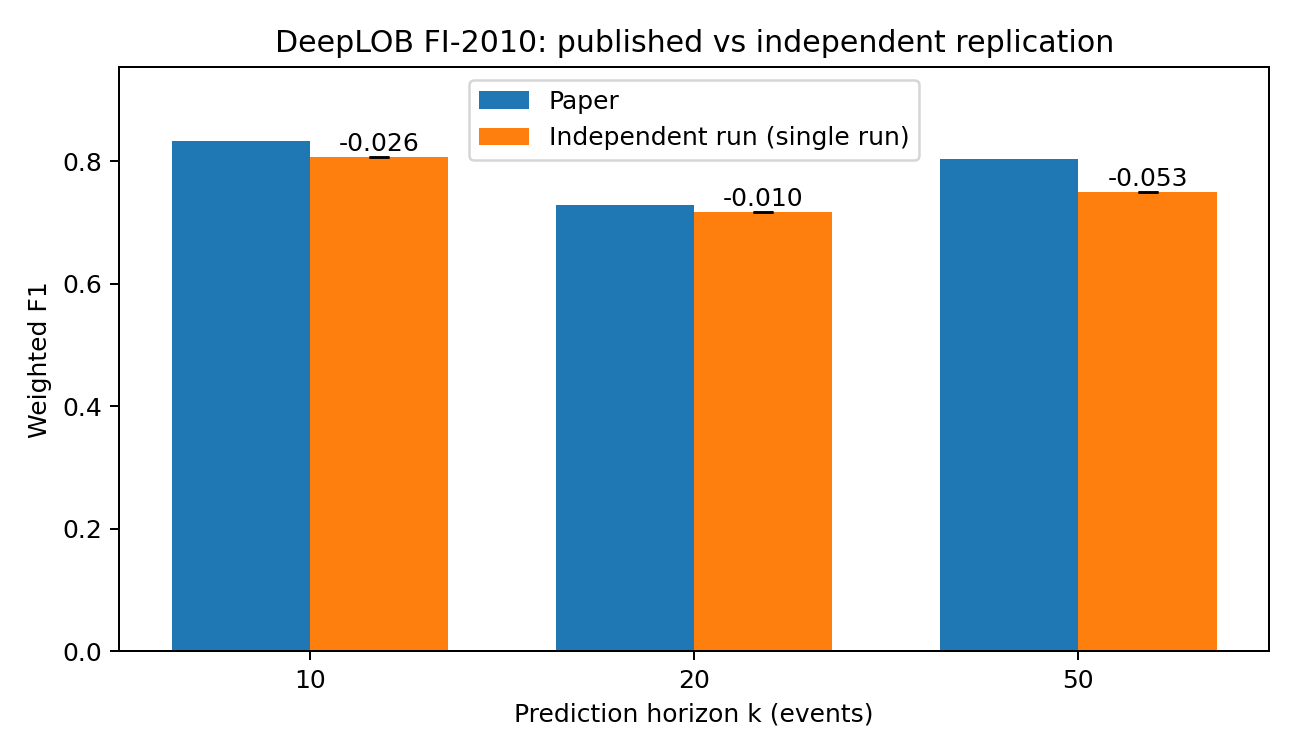
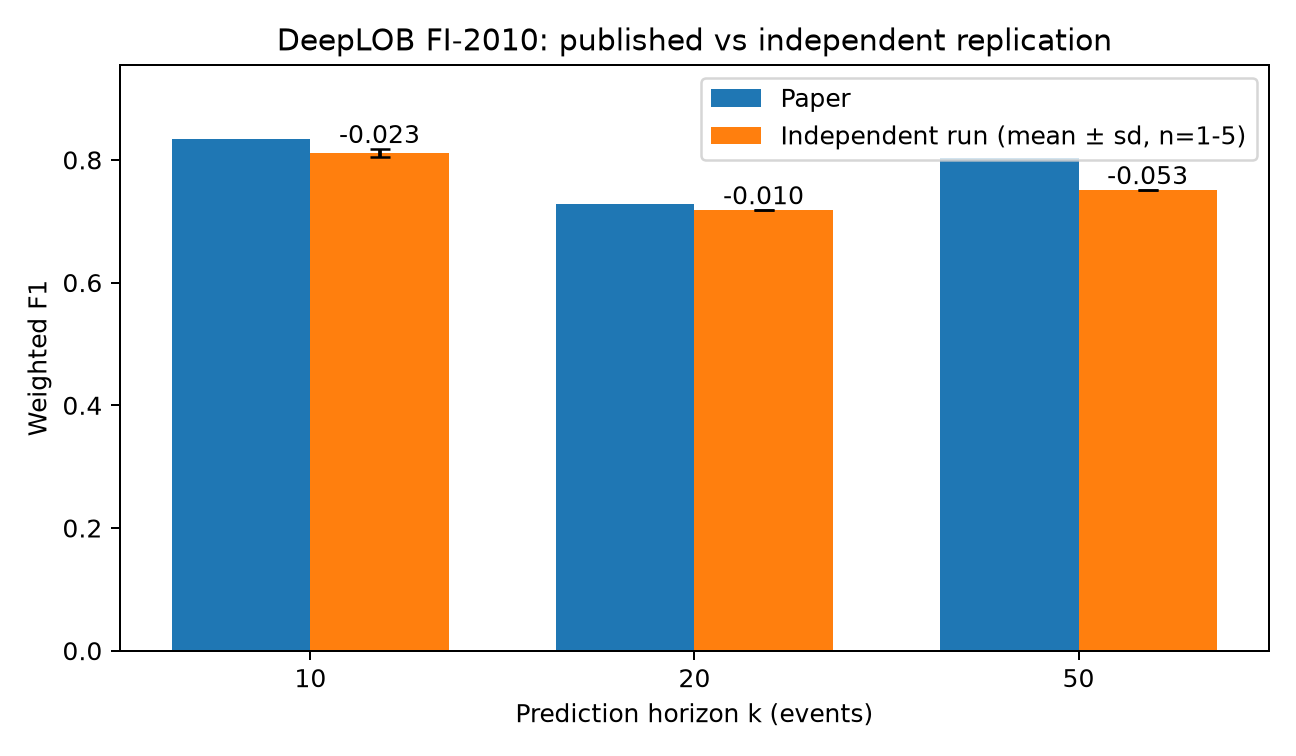
results: five-seed table at k=10 (sd 0.0065); report the gap as -0.0231 +/- 0.0065; regenerate the figure with error bars; strip UTF-8 BOM from two configs that broke multiseed

diff --git a/RESULTS.md b/RESULTS.md
@@ -243,14 +243,51 @@ deeplob-rep multiseed configs/author_tf1.yaml --seeds 1 2 3 4 5
 Report mean ± std, never the best seed. The paper's headline table reports a single result;
 the multi-seed table makes optimization variance visible.
 
-| Horizon | weighted F1 mean | std | macro F1 mean | std |
-|---:|---:|---:|---:|---:|
-| 10 | — | — | — | — |
-| 20 | — | — | — | — |
-| 50 | — | — | — | — |
+| Horizon | weighted F1 mean | std | macro F1 mean | std | seeds |
+|---:|---:|---:|---:|---:|---:|
+| 10 | **0.810943** | **0.006500** | 0.705773 | 0.009644 | 5 |
+| 20 | 0.717720 | — | 0.629972 | — | 1 |
+| 50 | 0.750468 | — | 0.732857 | — | 1 |
 
-Until this table exists, the −0.0263 gap above is a single draw from an unknown
-seed distribution and must not be quoted as *the* replication gap.
+Per-seed detail at k=10:
+
+| seed | weighted F1 | accuracy | macro F1 | ECE | best epoch | train seconds |
+|---:|---:|---:|---:|---:|---:|---:|
+| 1 | 0.807558 | 0.817260 | 0.703300 | 0.013100 | 96 | 12,287 |
+| 2 | **0.817319** | 0.827304 | 0.714718 | 0.012998 | 128 | 12,244 |
+| 3 | 0.811260 | 0.820386 | 0.706742 | 0.017362 | 121 | 12,204 |
+| 4 | **0.801828** | 0.814608 | 0.690230 | 0.019787 | 144 | 12,152 |
+| 5 | 0.816749 | 0.828293 | 0.713877 | 0.017582 | 105 | 12,366 |
+| 42 (base) | 0.807689 | 0.819726 | 0.701000 | 0.011178 | **69** | 12,730 |
+
+The table now exists, and it changes what should be quoted.
+
+**The replication gap at k=10 is −0.0231 ± 0.0065, not −0.0263.** The headline figure elsewhere in
+this file is seed 42's, and seed 42 turns out to sit in the lower half of the distribution
+(0.807689 against a mean of 0.810943). Nothing was wrong with that run; it was one draw, and this
+is what one draw is worth.
+
+**Seed noise is thirty times inference noise.** The MC-dropout standard deviation on a fixed
+checkpoint is 0.000213; the standard deviation across training seeds is 0.006500. The earlier
+finding that a single evaluation draw is not materially misleading stands, and it says nothing
+whatever about a single *training* run — a distinction that was not measurable until now.
+
+**The residual gap is 2.3 seed standard deviations.** After the validation-dropout ablation
+accounts for +0.011153, the unexplained remainder at k=10 is −0.0152, which is 2.3 sd of the seed
+distribution. The best seed of five (0.817319) lands −0.0167 from the paper, and adding the
+validation-dropout effect to it would reach 0.8285 — within one standard deviation of the
+published 0.8340. The shortfall has not been shown to be an artifact, but it is no longer large
+relative to the noise this benchmark produces.
+
+**The paper reports a single number.** If its authors also ran one seed, 0.8340 is itself one draw
+from a distribution with sd on the order of 0.0065, and the honest comparison is between a
+distribution and a point, not between two point estimates. This audit can produce that distribution;
+the published table cannot.
+
+**Checkpoint selection is highly variable.** Best epochs across the five seeds are 96, 105, 121,
+128 and 144. Seed 42's 69 is outside that range entirely. The compute-budget arithmetic elsewhere
+in this file, which uses epoch 69 to size the saving from early stopping, is therefore based on the
+most favourable case observed; at a best epoch of 144 the saving falls to 18 %.
 
 ## Pending: Ablation Ledger
 

diff --git a/README.md b/README.md
@@ -12,22 +12,25 @@ The implementation is built to make expensive experiments inspectable: named pro
 
 ## Verified results: all three horizons
 
-`author_tf1`, single seed each, full 200-epoch runs on real FI-2010 Setup-2 data:
+`author_tf1`, full 200-epoch runs on real FI-2010 Setup-2 data. k=10 is five seeds; k=20 and
+k=50 are one seed each:
 
 | | k = 10 | k = 20 | k = 50 |
 |---|---:|---:|---:|
 | Paper weighted F1 | 0.8340 | 0.7282 | 0.8035 |
-| **This repository** | **0.8077** | **0.7177** | **0.7505** |
+| **This repository** | **0.8109** (5 seeds) | **0.7177** | **0.7505** |
 | Majority-class floor | 0.5855 | 0.4755 | 0.3039 |
-| **Gap to paper** | **−0.0263** | **−0.0105** | **−0.0530** |
+| **Gap to paper** | **−0.0231 ± 0.0065** | **−0.0105** | **−0.0530** |
 | **Lift over floor** | **+0.2222** | **+0.2422** | **+0.4466** |
 | accuracy | 0.8197 | 0.7355 | 0.7514 |
 
 ![Published vs independent replication, weighted F1 by horizon](docs/replication_gap.png)
 
-Regenerate with `python scripts/render_results.py outputs/metrics_all_horizons.csv --out docs/replication_gap.png`
-after concatenating the three per-horizon `metrics.csv` files; the same script takes
-`metrics_by_seed.csv` and adds error bars once the multi-seed table exists.
+The error bar on k=10 is the standard deviation across five training seeds (0.0065). **k=20 and
+k=50 have no error bar because they have one seed each, not because they are more certain** — the
+legend's `n=1-5` records that asymmetry. Regenerate by concatenating the five k=10 seed
+`metrics.csv` files with the k=20 and k=50 ones and passing the result to
+`scripts/render_results.py`.
 
 **The gap is not monotonic in `k`.** k=20 is the closest to the published figure and k=50 the
 furthest; the spread across horizons (0.0425) is larger than the k=10 gap itself. Any explanation
@@ -51,8 +54,9 @@ estimated.
 > exact Setup-2 window counts (203,701 / 50,851 / 139,488) and the 142,691 parameter count;
 > the test-set class balance and majority baselines are measured; `author_tf1` is trained and
 > reported above at k=10, k=20 and k=50; the evaluation-only dropout ablation is measured
-> (+0.000034, inside noise). Still pending: the five-seed table and the four retraining rows of
-> the Ablation Ledger. Paper targets elsewhere in this README are reference values, not results.
+> (+0.000034, inside noise); the five-seed table at k=10 is complete (sd 0.0065); three of the
+> four retraining ablations are measured. Still outstanding: multi-seed at k=20 and k=50, and the
+> z-score row, which is blocked on raw data rather than pending. Paper targets elsewhere in this README are reference values, not results.
 > [`RESULTS.md`](RESULTS.md) keeps the two apart.
 
 **The baseline every DeepLOB number must be read against** (FI-2010 Setup-2 test set,
